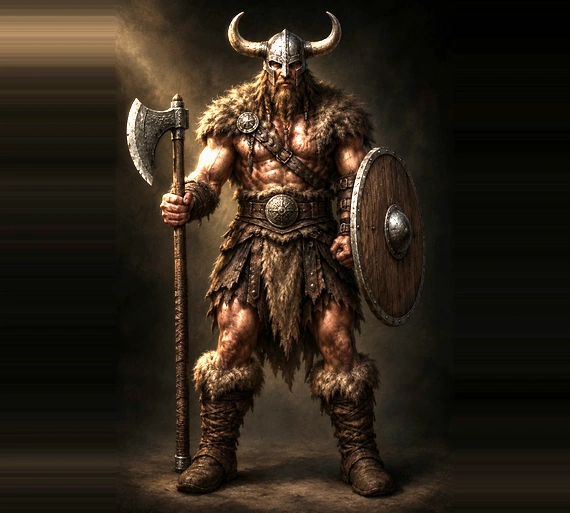
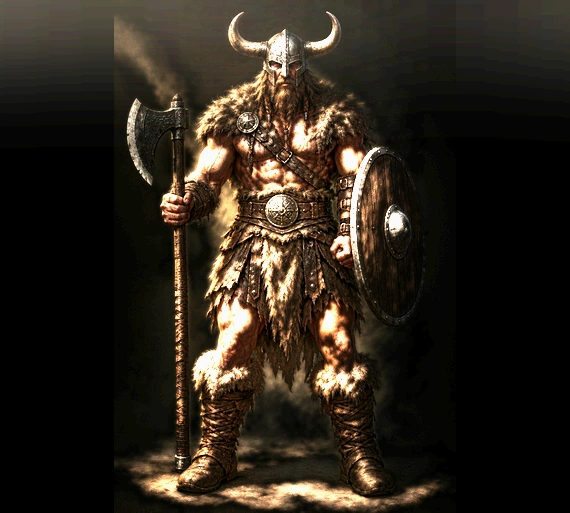
Sfondo unico per le tre figure finali e colonna di luce nell'aura

diff --git a/stile.css b/stile.css
@@ -1723,6 +1723,47 @@ body:has(.sfondo-dialogo) .avviso {
   50%      { opacity: 1;   transform: scale(1.05) rotate(45deg); }
 }
 
+/* LA COLONNA DI LUCE dietro la figura.
+ *
+ * Ste (12/10/2026): "aggiungi piu' effetti".
+ *
+ * Non e' un raggio: e' una colonna larga e sfocata, che sale dal pavimento e
+ * passa dietro le spalle. Sta dietro perche' il riquadro e' sopra la foto, quindi
+ * perche' sia "dietro" deve essere disegnata PRIMA: per questo usa `z-index: 0`,
+ * mentre la foto ne ha `z-index: 1`. Il resto dell'aura resta davanti.
+ *
+ * Si muove poco e piano, e in alto si spegne: una colonna che arriva fino in cima
+ * sembrerebbe un proiettore, non una luce.
+ */
+.aura-colonna {
+  position: absolute;
+  inset: 0;
+  z-index: 0;
+  pointer-events: none;
+  mix-blend-mode: screen;
+  background:
+    linear-gradient(0deg,
+      color-mix(in srgb, var(--aura) 40%, transparent) 0%,
+      color-mix(in srgb, var(--aura) 16%, transparent) 42%,
+      transparent 86%);
+  -webkit-mask-image: radial-gradient(34% 100% at 50% 52%, #000 0%, transparent 84%);
+  mask-image: radial-gradient(34% 100% at 50% 52%, #000 0%, transparent 84%);
+  filter: blur(20px);
+  animation: aura-colonna 7.5s ease-in-out infinite;
+}
+@keyframes aura-colonna {
+  0%, 100% { opacity: .72; transform: scaleX(.92); }
+  50%      { opacity: 1;   transform: scaleX(1.06); }
+}
+
+/* LA FOTO STA SOPRA LA COLONNA, e sotto il resto dell'aura. */
+.personaggio-scena-grafica.personaggio-aura .personaggio-ritratto { position: relative; z-index: 1; }
+.personaggio-scena-grafica.personaggio-aura::before,
+.personaggio-scena-grafica.personaggio-aura::after,
+.aura-scie,
+.aura-stelle,
+.aura-lustro { z-index: 2; }
+
 /* IL BAGLIORE che attraversa la figura ogni 4,5 secondi.
  *
  * Ste (12/10/2026): "la banda di luce falla un po' piu' spesso che spunta, tipo
@@ -1762,6 +1803,7 @@ html.animazioni-mai .aura-lustro { animation: none; }
 html.animazioni-mai .aura-scie i,
 html.animazioni-mai .aura-stelle i { opacity: .55; }
 html.animazioni-mai .aura-lustro { display: none; }
+html.animazioni-mai .aura-colonna { animation: none; }
 
 /* Lo stato in cui sei ADESSO, marcato nella fila. Così sai subito quale sei. */
 .pezzo.adesso {

diff --git a/src/app.js b/src/app.js
@@ -4479,6 +4479,7 @@ function bloccoPersonaggio(profilo, st) {
       // Sei, non quattro: con quattro si leggevano come un corteo regolare. Ogni
       // `deriva` spinge la scintilla di lato mentre sale, così il gruppo si apre
       // invece di restare una colonna.
+      grafica.appendChild(el('div', { class: 'aura-colonna', aria: { hidden: 'true' } }));
       const scie = el('div', { class: 'aura-scie', aria: { hidden: 'true' } });
       const posizioni = [20, 31, 41, 50, 59, 68, 79];
       const ritardi = [0, .9, 1.7, 2.4, 3.1, 3.9, 4.6];
@@ -4505,12 +4506,19 @@ function bloccoPersonaggio(profilo, st) {
       // bassi, con tempi diversi. Non stanno ferme: una stella fissa sembra una
       // macchiolina, una stella che si accende e spegne sembra viva.
       const stelle = el('div', { class: 'aura-stelle', aria: { hidden: 'true' } });
+      // Nove, non cinque: con cinque la parte alta del riquadro restava vuota, e il
+      // vuoto si nota più delle stelle. alternate sono grandi e piccole, così non
+      // sembrano una griglia.
       const Stelle = [
-        { x: 17, y: 19, g: 8, r: 0, d: 3.2 },
-        { x: 81, y: 26, g: 6, r: 1.1, d: 4.1 },
-        { x: 26, y: 41, g: 5, r: 2.3, d: 3.6 },
-        { x: 87, y: 52, g: 7, r: .7, d: 4.6 },
-        { x: 11, y: 62, g: 5, r: 1.9, d: 3.9 },
+        { x: 15, y: 15, g: 8, r: 0, d: 3.2 },
+        { x: 34, y: 9, g: 5, r: 1.4, d: 4.3 },
+        { x: 62, y: 13, g: 6, r: 2.6, d: 3.8 },
+        { x: 84, y: 19, g: 7, r: .8, d: 4.5 },
+        { x: 24, y: 33, g: 5, r: 2.0, d: 3.4 },
+        { x: 90, y: 38, g: 5, r: 3.1, d: 4.1 },
+        { x: 8, y: 49, g: 6, r: 1.1, d: 3.7 },
+        { x: 44, y: 44, g: 4, r: 2.9, d: 4.6 },
+        { x: 73, y: 47, g: 5, r: .4, d: 3.5 },
       ];
       for (const s of Stelle) {
         stelle.appendChild(el('i', {

diff --git a/test/avatar-stati.test.js b/test/avatar-stati.test.js
@@ -339,6 +339,14 @@ test('R10s. l\'aura ha luce, raggi e scintille, e rispetta chi non vuole le anim
   assert.match(css, /repeating-conic-gradient/, "l'anello che gira piano");
   assert.match(css, /@keyframes aura-stella/, 'le stelle che si accendono e spengono');
   assert.match(css, /@keyframes aura-lustro/, 'il bagliore che attraversa la figura');
+  // Ste (12/10/2026): \"aggiungi piu' effetti\". La colonna di luce sta DAVANTI alla
+  // foto nel DOM ma ha z-index: 0 mentre la foto ha z-index: 1: senza questo
+  // la colonna verrebbe dipinta sopra la figura e la coprirebbe.
+  assert.match(css, /\.aura-colonna\s*\{[^}]*z-index:\s*0/, 'la colonna di luce sta dietro la foto');
+  assert.match(css, /personaggio-aura \.personaggio-ritratto\s*\{[^}]*z-index:\s*1/, 'e la foto sta sopra la colonna');
+  assert.match(css, /@keyframes aura-colonna/, 'la colonna deve respirare piano');
+  const appC = await readFile(join(RADICE, 'src', 'app.js'), 'utf8');
+  assert.match(appC, /class: 'aura-colonna'/, "la colonna e' creata dal codice");
   // Ste (12/10/2026): "la banda di luce falla un po' piu' spesso che spunta, tipo
   // ogni 4,5 secondi". Prima passavano 6,5 e sembrava non accadesse mai: qui si
   // controlla il numero, perche' e' una cosa che si dimentica di cambiare.

diff --git a/anteprima-aura.html b/anteprima-aura.html
@@ -147,13 +147,22 @@
   const grandezze = [5, 3, 4, 3, 6, 3, 4];
   const derive = [14, -9, 6, -13, 10, -6, 16];
   const Stelle = [
-    { x: 17, y: 19, g: 8, r: 0, d: 3.2 },
-    { x: 81, y: 26, g: 6, r: 1.1, d: 4.1 },
-    { x: 26, y: 41, g: 5, r: 2.3, d: 3.6 },
-    { x: 87, y: 52, g: 7, r: .7, d: 4.6 },
-    { x: 11, y: 62, g: 5, r: 1.9, d: 3.9 },
+    { x: 15, y: 15, g: 8, r: 0, d: 3.2 },
+    { x: 34, y: 9, g: 5, r: 1.4, d: 4.3 },
+    { x: 62, y: 13, g: 6, r: 2.6, d: 3.8 },
+    { x: 84, y: 19, g: 7, r: .8, d: 4.5 },
+    { x: 24, y: 33, g: 5, r: 2.0, d: 3.4 },
+    { x: 90, y: 38, g: 5, r: 3.1, d: 4.1 },
+    { x: 8, y: 49, g: 6, r: 1.1, d: 3.7 },
+    { x: 44, y: 44, g: 4, r: 2.9, d: 4.6 },
+    { x: 73, y: 47, g: 5, r: .4, d: 3.5 },
   ];
   document.querySelectorAll('[data-scie]').forEach((box) => {
+    const colonna = document.createElement('div');
+    colonna.className = 'aura-colonna';
+    colonna.setAttribute('aria-hidden', 'true');
+    box.appendChild(colonna);
+
     const scie = document.createElement('div');
     scie.className = 'aura-scie';
     scie.setAttribute('aria-hidden', 'true');

diff --git a/index.html b/index.html
@@ -32,7 +32,7 @@
 <meta name="apple-mobile-web-app-capable" content="yes">
 <meta name="apple-mobile-web-app-status-bar-style" content="black-translucent">
 <meta name="mobile-web-app-capable" content="yes">
-<link rel="stylesheet" href="./stile.css?v=129">
+<link rel="stylesheet" href="./stile.css?v=130">
 <!--
   LA VERSIONE NEL COLLEGAMENTO AL FOGLIO DI STILE.
 
@@ -63,7 +63,7 @@
      insieme, su 11 righe su 20: il bonus spingeva gli LP senza ricalcolare la
      divisione. Trovato leggendo il telefono. Il numero di versione sta in DUE
      file, questo e sw.js: i test I2 e I3 lo controllano. -->
-<script>window.PALESTRA_VERSIONE = '129';</script>
+<script>window.PALESTRA_VERSIONE = '130';</script>
 <script type="module" src="./src/app.js"></script>
 </body>
 </html>

diff --git a/sw.js b/sw.js
@@ -9,7 +9,7 @@
 // e il test I3 che sia quello dell'ultimo commit, altrimenti si alza la cache e si
 // lascia scritto il numero vecchio. E' successo due volte: nella v54 avevo alzato
 // solo questo file, e dopo la v55 avevo smesso di alzarlo del tutto.
-const VERSIONE = 'palestra-v129';
+const VERSIONE = 'palestra-v130';
 
 const FILE = [
   './',
@@ -24,7 +24,7 @@ const FILE = [
   // Il numero deve essere uguale a quello di `stile.css?v=` in index.html e a
   // `window.PALESTRA_VERSIONE`: se i tre non coincidono, l'app carica un foglio di
   // stile e dice un altro numero.
-  './stile.css?v=129',
+  './stile.css?v=130',
 './manifest.webmanifest',
   './manifest-p1.webmanifest',
   './manifest-p2.webmanifest',
